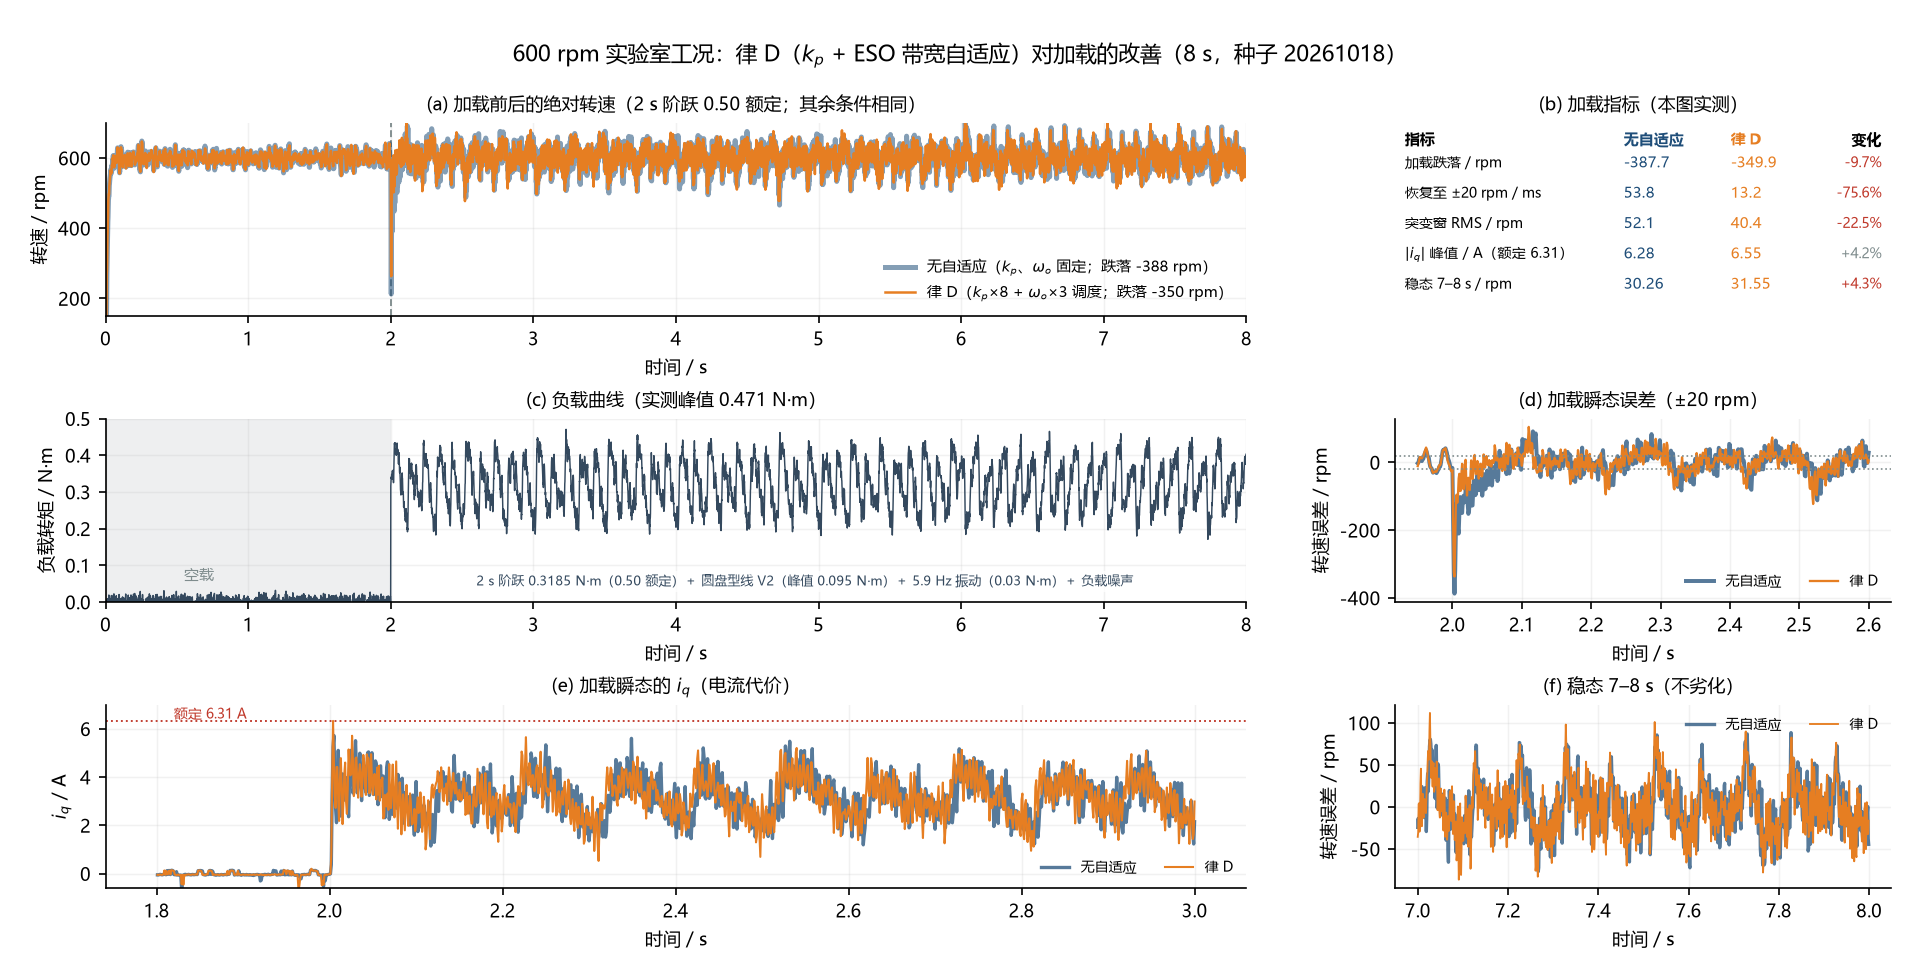
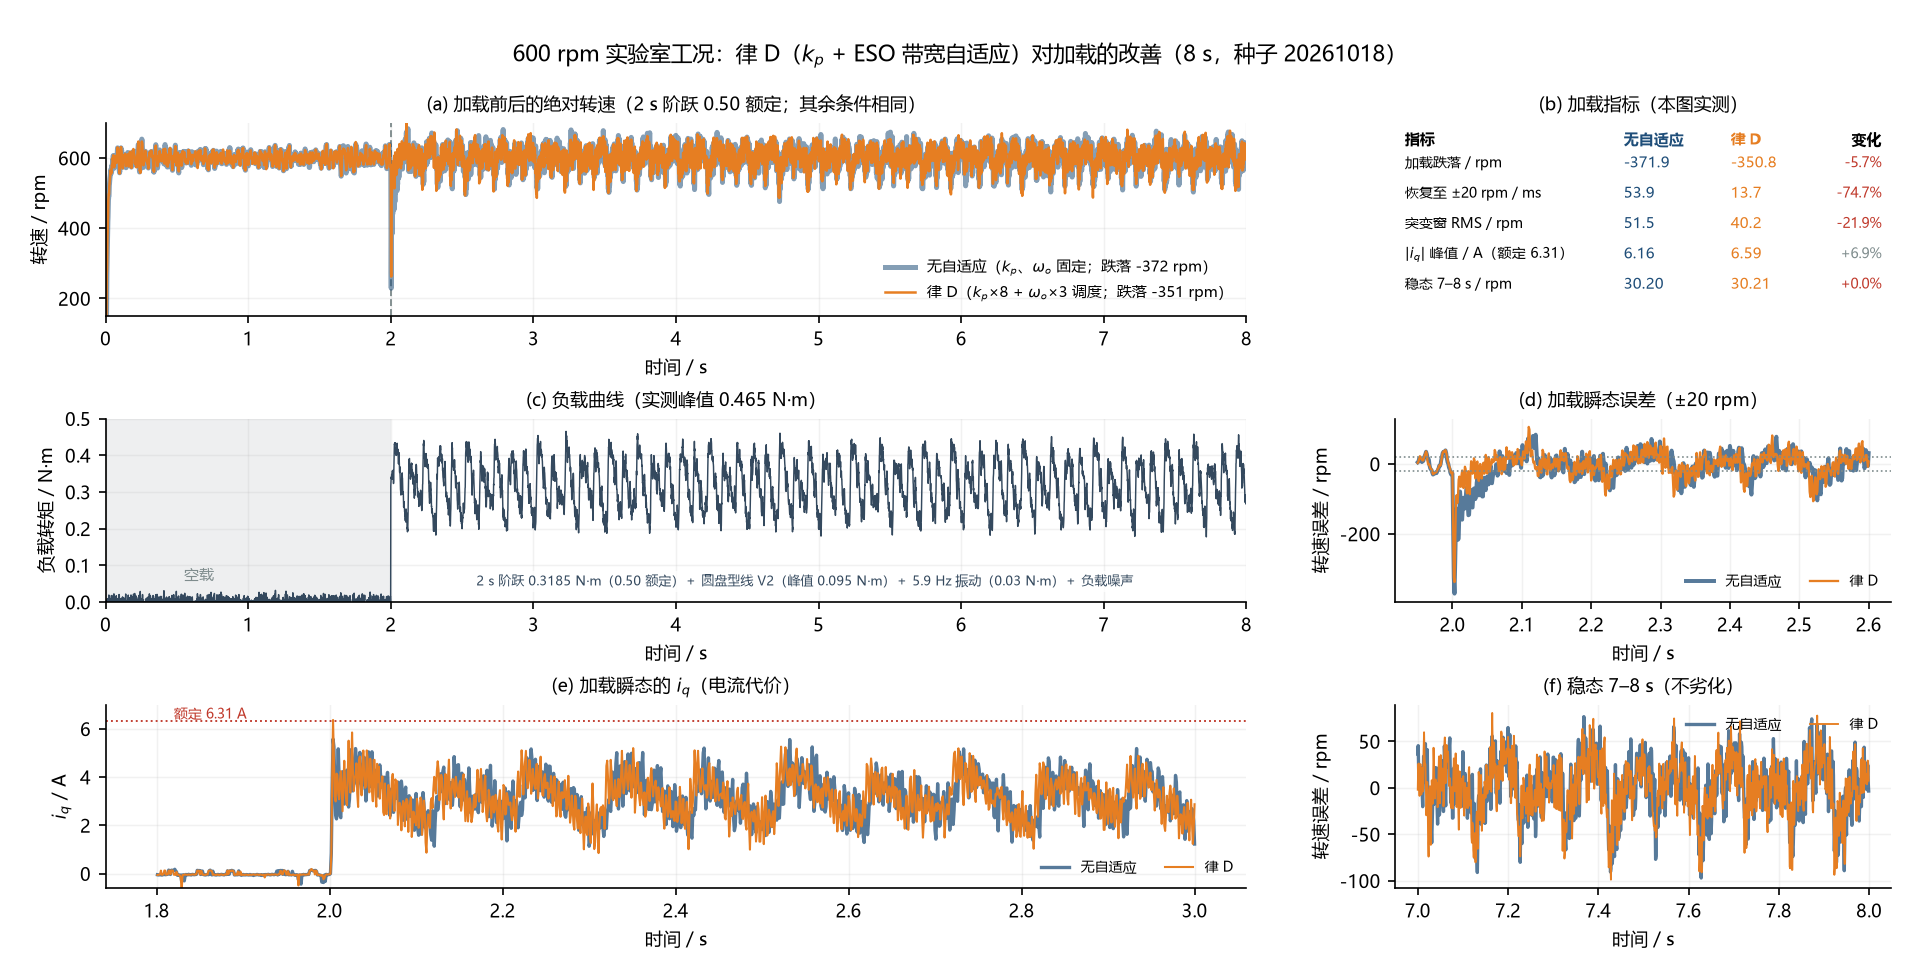
wip(data): 统一口径（T_adapt=True、无回升窗、8 s）后的全部重跑数据
- 律D：-371.9/53.9/51.5/30.20/6.16 -> -350.8/13.7/40.2/30.21/6.59（稳态持平，iq 超额定）\n- ESC：30.60 -> 27.49，delta 收敛 -10.9%；A 最优 -12%、RMS 最优 -8%\n- 300 rpm、beta3、tau 扫描均已重跑；报告表格待改写

diff --git a/run_b3_scan.py b/run_b3_scan.py
@@ -1,0 +1,48 @@
+# -*- coding: utf-8 -*-
+"""run_b3_scan.py —— beta3 注入增益调度扫描（rc_bp=0，走 kb_b3 分支）"""
+import json
+from multiprocessing import Pool
+import numpy as np
+import noise_cfg as NC
+from tl_profile import disc_unbalance_profile
+from run_laws_compare import build_loads, N_REF, AMP, ANG_START
+
+BASE = dict(fci=500.0, beta3=4000.0, Q0=0.98, tau0=20e-3, seed_i=20261018,
+            i_noise_peak=NC.NOISE_LAB["i_noise_peak"],
+            sig_n=NC.NOISE_LAB["sig_n_rpm"],
+            sig_T_nm=NC.NOISE_LAB["sig_T_nm"],
+            tl_ang=disc_unbalance_profile(), tl_ang_amp=AMP,
+            tl_ang_start=ANG_START, tl_ang_rev=29.9,
+            eso_law="fal", eso_a=0.75, eso_delta=0.10, eso_lam=10.0,
+            T=0.1, T_adapt=True, T_filt=50e-3)
+CASES = [("b0_a05", dict(kp_boost=8.0, kb_eso=0.5, kb_b3=0.0, det_eps=0.01)),
+         ("b1_a05", dict(kp_boost=8.0, kb_eso=0.5, kb_b3=1.0, det_eps=0.01)),
+         ("b3_a05", dict(kp_boost=8.0, kb_eso=0.5, kb_b3=3.0, det_eps=0.01)),
+         ("b0_a1", dict(kp_boost=8.0, kb_eso=1.0, kb_b3=0.0, det_eps=0.01)),
+         ("b3_a1", dict(kp_boost=8.0, kb_eso=1.0, kb_b3=3.0, det_eps=0.01))]
+
+
+def one(job):
+    from pmsm_inv_sim import sim_inv
+    key, kw = job
+    t, TL = build_loads()
+    cfg = dict(BASE); cfg.update(kw)
+    Y = sim_inv(t, TL, cfg)
+    tt = np.asarray(Y["t"]); y = np.asarray(Y["y"]); iq = np.asarray(Y["iq"])
+    e = (y - 1.0) * N_REF
+    m = (tt >= 1.9) & (tt <= 2.5)
+    i0 = int(np.where(m)[0][int(np.argmin(e[m]))])
+    idx = np.where((np.abs(e) <= 20.0) & (np.arange(len(e)) > i0) & (tt >= 2.0))[0]
+    d = dict(dip=float(np.min(e[m])), rec=float((tt[idx[0]] - 2.0) * 1e3),
+             step_rms=float(np.sqrt(np.mean(e[(tt >= 2.0) & (tt < 2.5)] ** 2))),
+             steady=float(np.sqrt(np.mean(e[(tt >= 7.0) & (tt < 8.0)] ** 2))),
+             iq=float(np.max(np.abs(iq))))
+    print(key, json.dumps(d), flush=True)
+    return key, d
+
+
+if __name__ == "__main__":
+    with Pool(5) as p:
+        res = p.map(one, CASES)
+    json.dump(dict(res), open("_b3_scan.json", "w", encoding="utf-8"), ensure_ascii=False, indent=1)
+    print("done")

diff --git a/run_lawd_cmp_600.py b/run_lawd_cmp_600.py
@@ -38,13 +38,15 @@ if __name__ == "__main__":
     t, TL = build_loads()
     out = {}
     for key, kw in CASES:
-        cfg = dict(n_ref=N_REF, T=0.1, fci=500.0, beta3=4000.0, Q0=0.98, tau0=20e-3,
+        cfg = dict(n_ref=N_REF, T=0.1, T_adapt=True, T_filt=50e-3,
+                   rc_bp=5.0, b3_min=4000.0, b3_max=4000.0, a_ref=1.0,
+                   fci=500.0, beta3=4000.0, Q0=0.98, tau0=20e-3,
                    seed_i=20261018,
                    i_noise_peak=NC.NOISE_LAB["i_noise_peak"],
                    sig_n=NC.NOISE_LAB["sig_n_rpm"],
                    sig_T_nm=NC.NOISE_LAB["sig_T_nm"],
                    tl_ang=disc_unbalance_profile(), tl_ang_amp=AMP,
-                   tl_ang_start=ANG_START, tl_ang_rev=TW,
+                   tl_ang_start=ANG_START, tl_ang_rev=29.9,
                    eso_law="fal", eso_a=0.75, eso_delta=0.10, eso_lam=10.0)
         cfg.update(kw)
         Y = sim_inv(t, TL, cfg)

diff --git a/run_batch2_scans.py b/run_batch2_scans.py
@@ -18,7 +18,7 @@ BASE = dict(fci=500.0, beta3=4000.0, Q0=0.98, tau0=20e-3, seed_i=20261018,
             sig_n=NC.NOISE_LAB["sig_n_rpm"],
             sig_T_nm=NC.NOISE_LAB["sig_T_nm"],
             tl_ang=disc_unbalance_profile(), tl_ang_amp=AMP,
-            tl_ang_start=ANG_START, tl_ang_rev=TW,
+            tl_ang_start=ANG_START, tl_ang_rev=29.9,
             eso_law="fal", eso_a=0.75, eso_delta=0.10, eso_lam=10.0,
             T=0.1, T_adapt=True, T_filt=50e-3)
 

diff --git a/run_scan_fix.py b/run_scan_fix.py
@@ -14,7 +14,7 @@ BASE = dict(fci=500.0, beta3=4000.0, Q0=0.98, tau0=20e-3, seed_i=20261018,
             sig_n=NC.NOISE_LAB["sig_n_rpm"],
             sig_T_nm=NC.NOISE_LAB["sig_T_nm"],
             tl_ang=disc_unbalance_profile(), tl_ang_amp=AMP,
-            tl_ang_start=ANG_START, tl_ang_rev=TW,
+            tl_ang_start=ANG_START, tl_ang_rev=29.9,
             eso_law="fal", eso_a=0.75, eso_delta=0.10, eso_lam=10.0,
             T=0.1, T_adapt=True, T_filt=50e-3)
 

diff --git a/run_tau_sweep.py b/run_tau_sweep.py
@@ -28,7 +28,7 @@ def one(tau):
                sig_n=NC.NOISE_LAB["sig_n_rpm"],
                sig_T_nm=NC.NOISE_LAB["sig_T_nm"],
                tl_ang=disc_unbalance_profile(), tl_ang_amp=AMP,
-               tl_ang_start=ANG_START, tl_ang_rev=TW,
+               tl_ang_start=ANG_START, tl_ang_rev=29.9,
                eso_law="fal", eso_a=0.75, eso_delta=0.10, eso_lam=10.0,
                T_es=True, es_d0=d0, es_step=0.0, es_dith=0.0)
     Y = sim_inv(t, TL, cfg)
